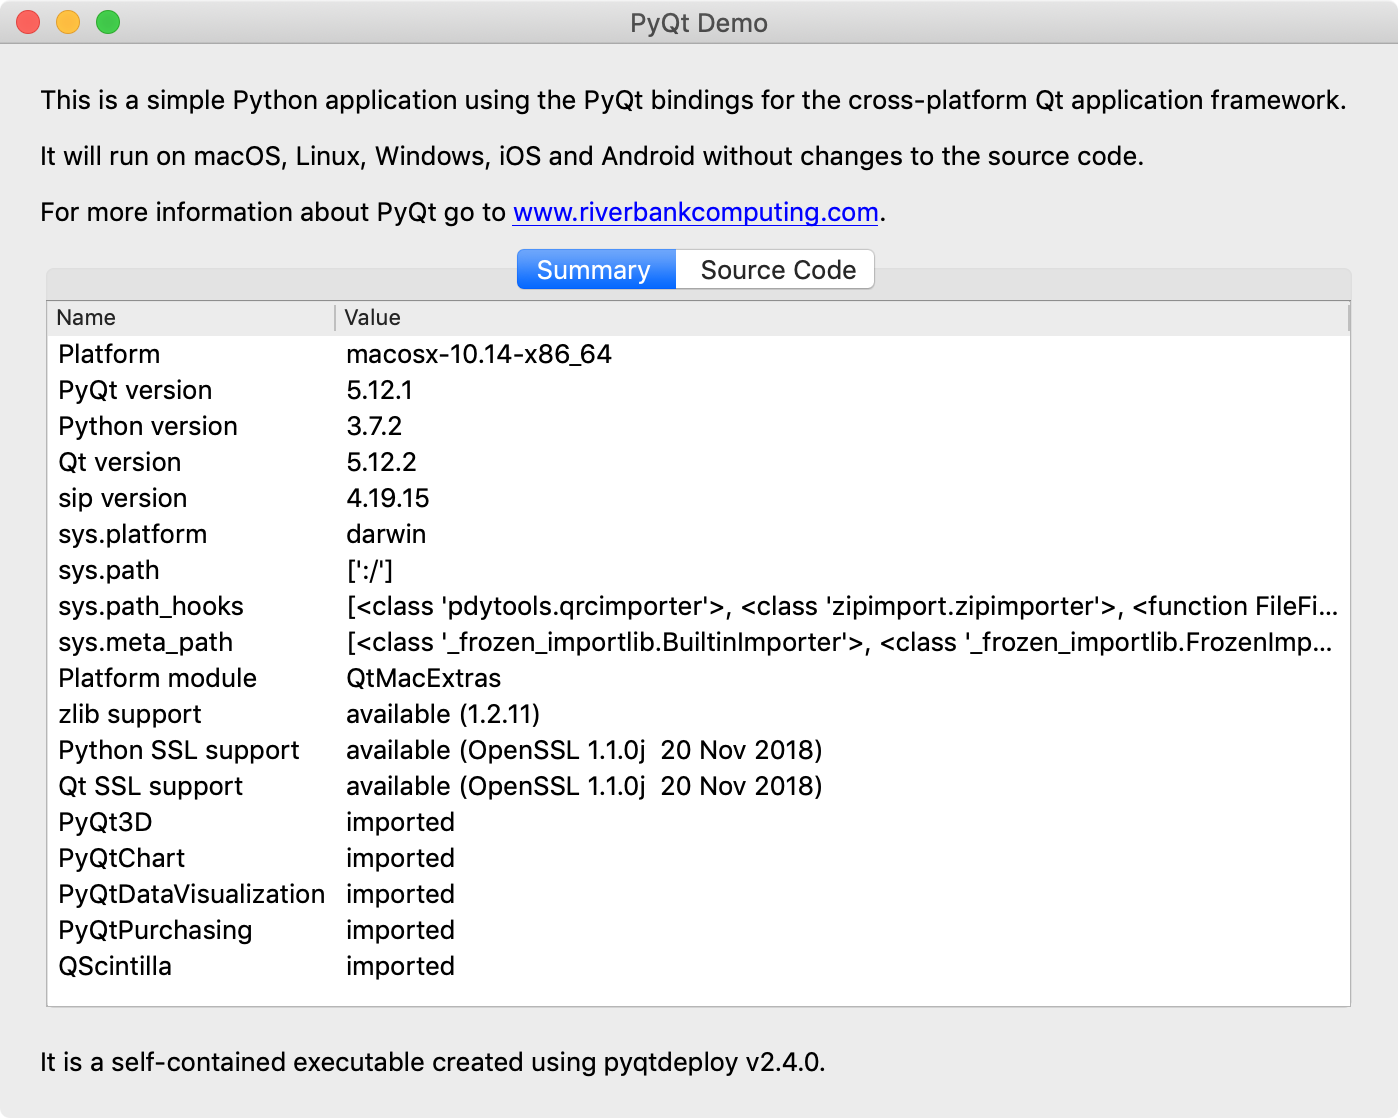
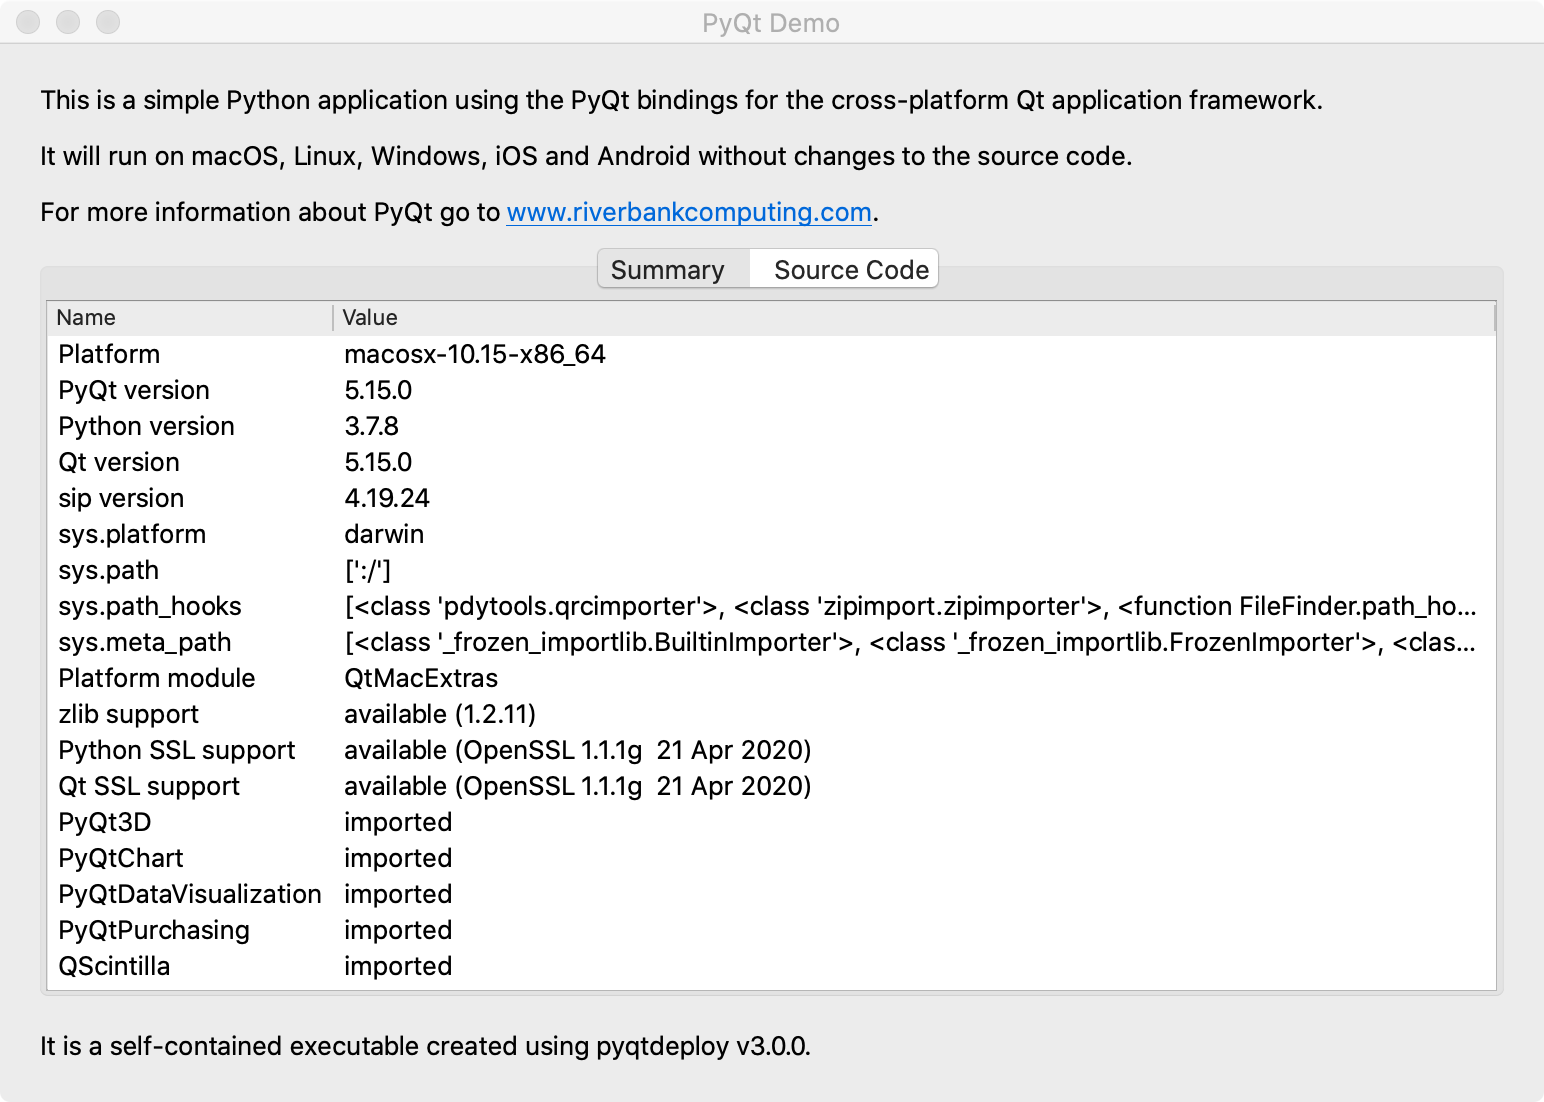
Updated all macOS hosted screenshots.

diff --git a/doc/demo.rst b/doc/demo.rst
@@ -89,9 +89,9 @@ Android
 .. image:: /images/pyqt-demo-android-32.png
     :align: center
 
-**Host platform used:** macOS Mojave (v10.14.4)
+**Host platform used:** macOS Catalina (v10.15.5)
 
-**Development tools used:** NDK r19c, SDK v26.1.1
+**Development tools used:** NDK r21d, SDK build tools v28.0.3
 
 **Python SSL support implemented:** dynamically linked bundled OpenSSL.
 
@@ -106,9 +106,9 @@ iOS
 .. image:: /images/pyqt-demo-ios-64.png
     :align: center
 
-**Host platform used:** macOS Mojave (v10.14.4)
+**Host platform used:** macOS Catalina (v10.15.5)
 
-**Development tools used:** Xcode v10.2.1
+**Development tools used:** Xcode v11.6
 
 **Python SSL support implemented:** none.
 
@@ -136,9 +136,9 @@ macOS
 .. image:: /images/pyqt-demo-macos-64.png
     :align: center
 
-**Host platform used:** macOS Mojave (v10.14.4)
+**Host platform used:** macOS Catalina (v10.15.5)
 
-**Development tools used:** Xcode v10.2.1
+**Development tools used:** Xcode v11.6
 
 **Python SSL support implemented:** statically linked OpenSSL.
 

diff --git a/doc/pyqtdeploy.rst b/doc/pyqtdeploy.rst
@@ -229,7 +229,7 @@ Adding Standard Library Packages
 The tab for defining the Python standard library packages used by the
 application is shown below.
 
-.. image:: /images/stdlib_packages_tab.png
+.. image:: /images/packages_tab.png
     :align: center
 
 **Package**
